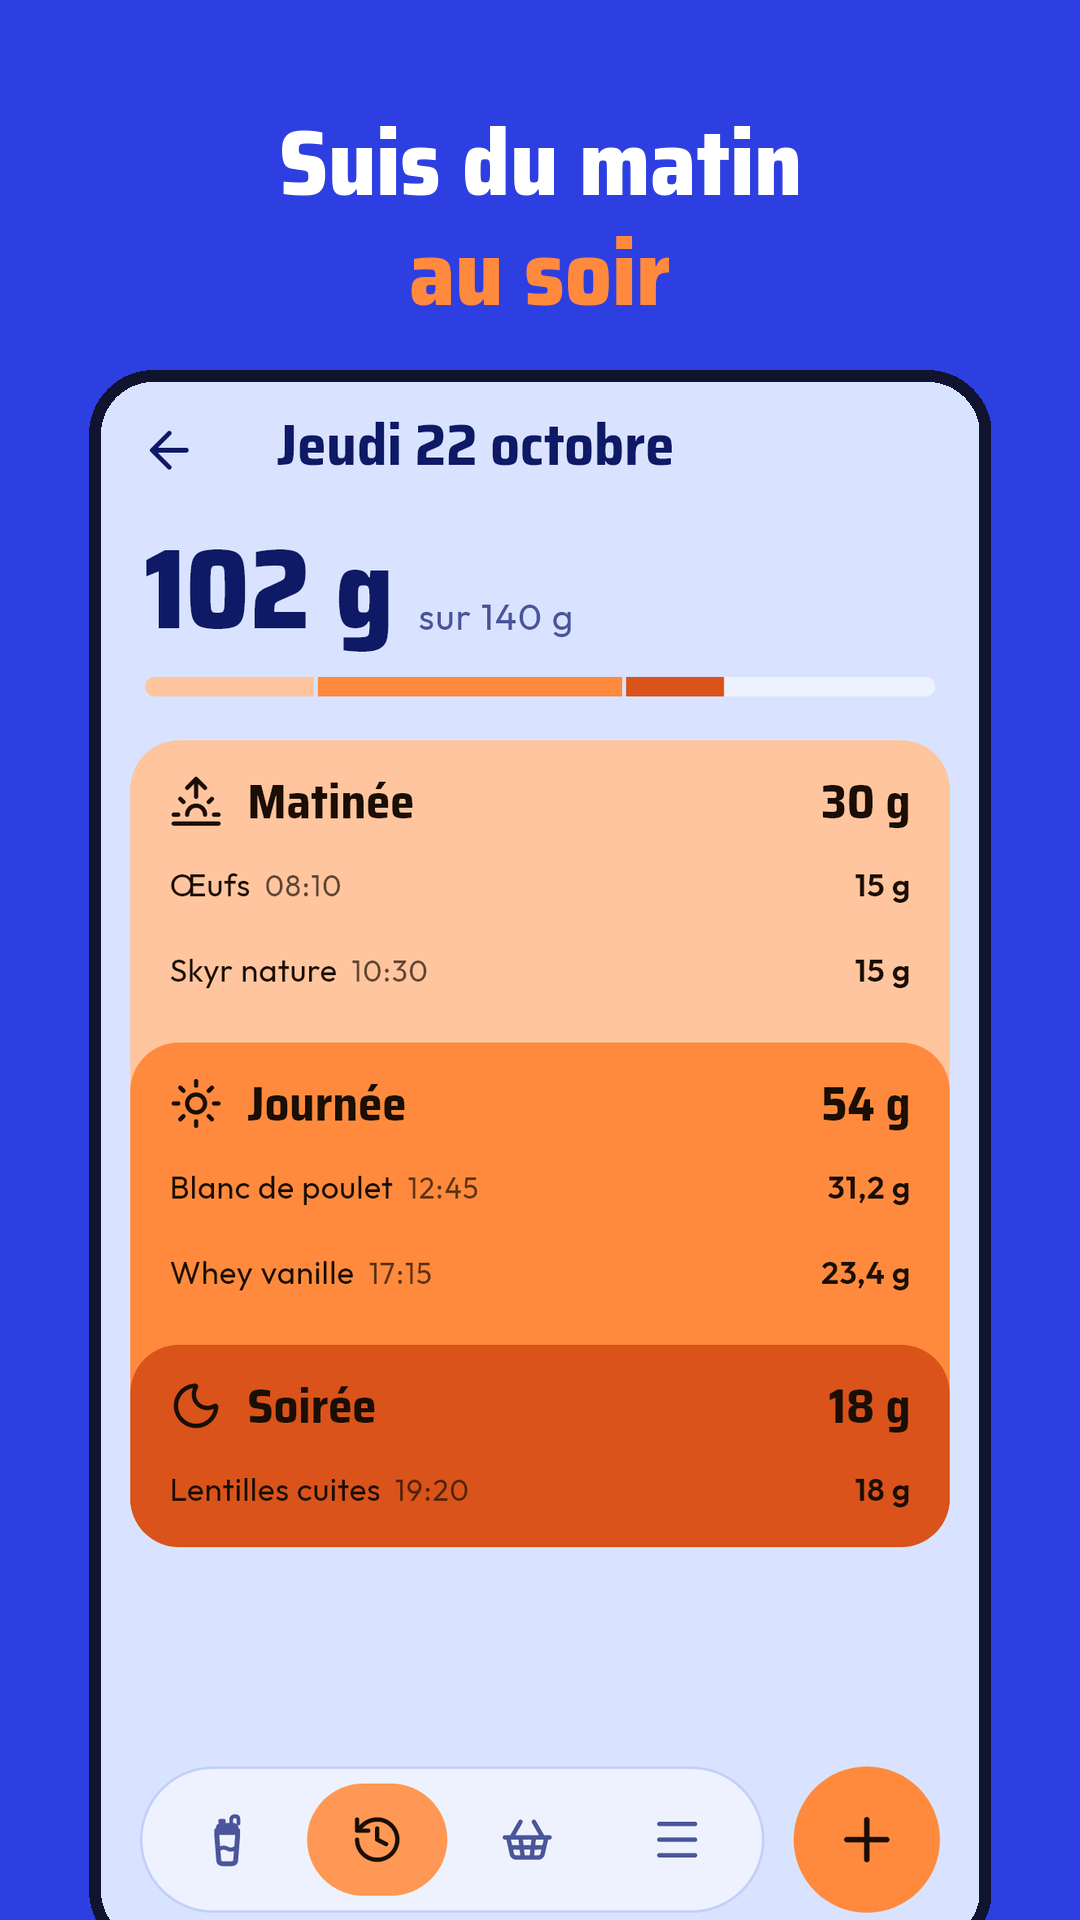
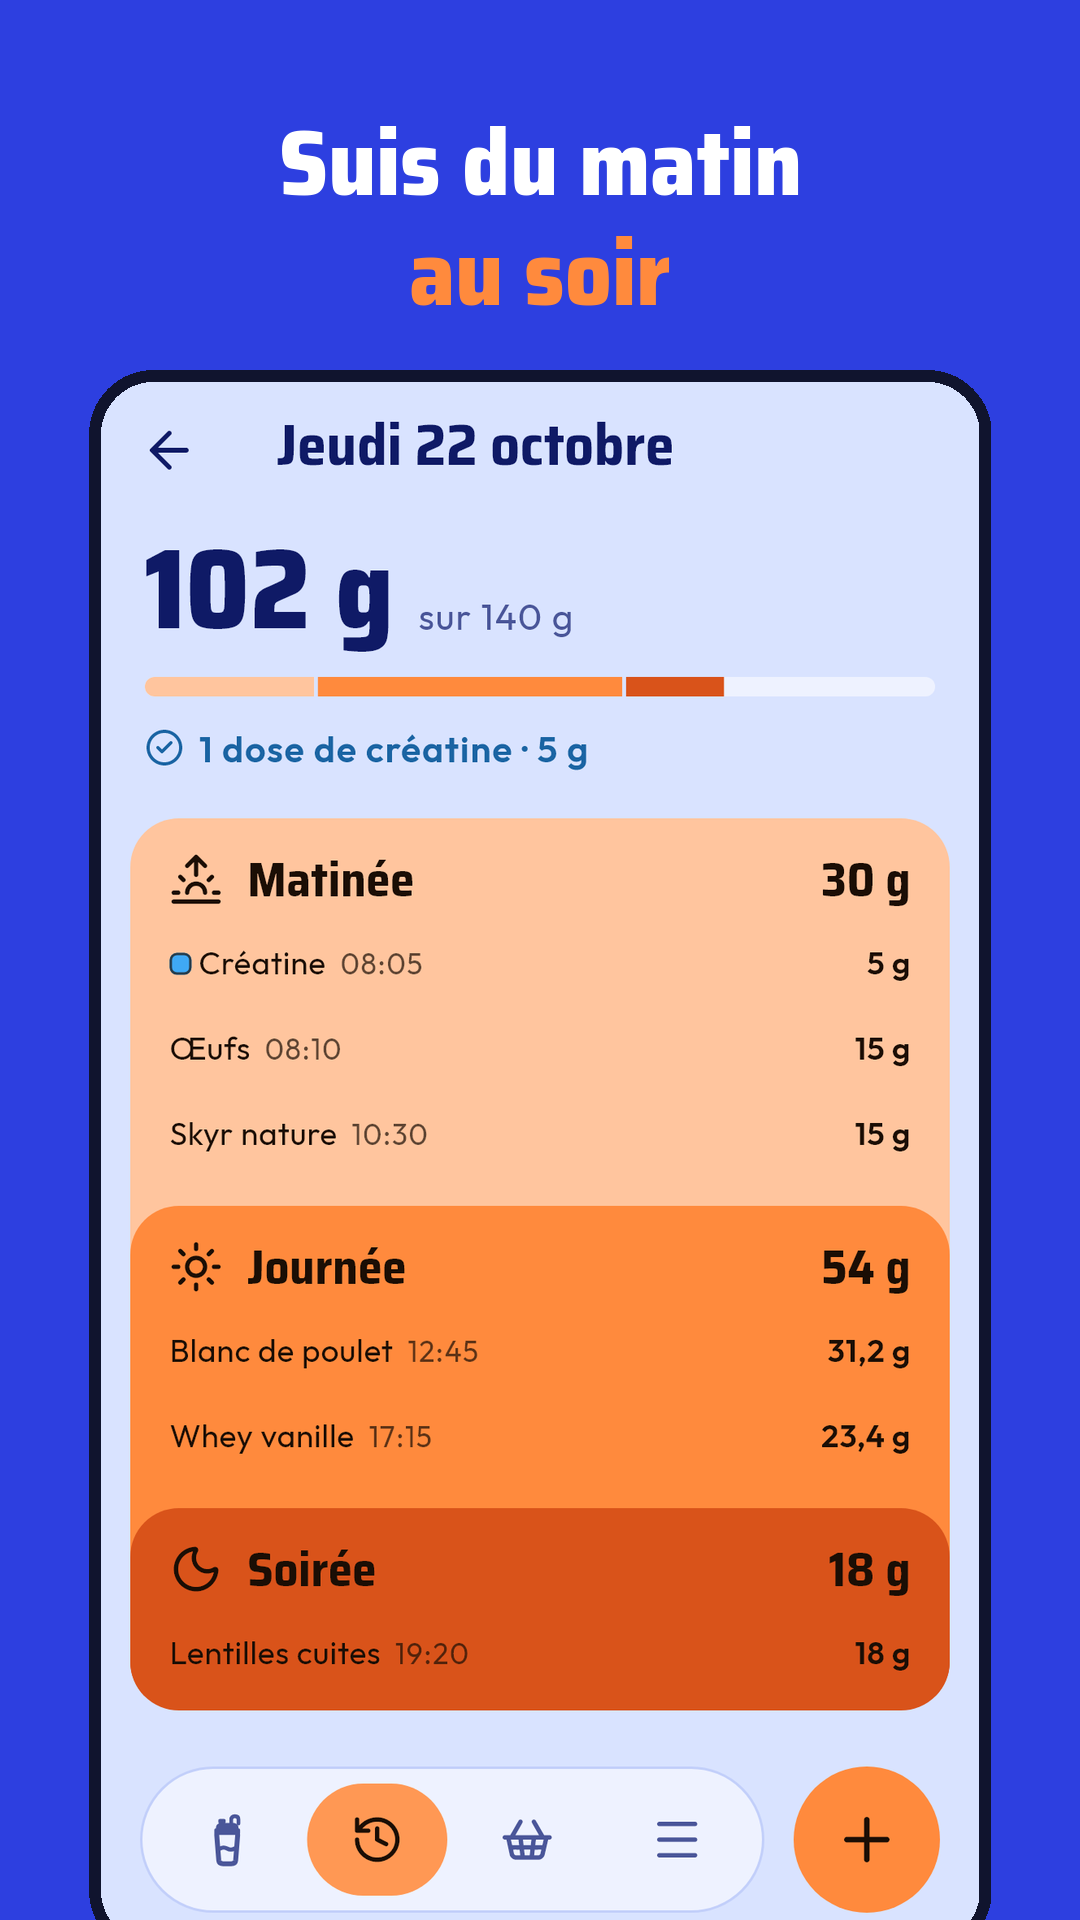
chore(release): prepare version 1.4.0
- Set the version to 1.4.0.
- Show creatine in the store screenshots of the phone and of the watch,
  and render them again with the images of the Google Play listing.
- Write the What's new texts, and add creatine and the home screen widget
  to the descriptions of the listing and to the features of the README.
- Show a few screenshots of the phone and of the watch in the README.

Changed region(s): [[0.1222, 0.375, 0.8861, 0.9062]]

diff --git a/android/wear/src/testDebug/kotlin/arbitro/android/protein_calculator/wear/StoreScreenshotsTest.kt b/android/wear/src/testDebug/kotlin/arbitro/android/protein_calculator/wear/StoreScreenshotsTest.kt
@@ -65,7 +65,14 @@ class StoreScreenshotsTest {
         val entries: List<Entry>,
     )
 
-    private class Entry(val name: String, val protein: Double, val hour: Int, val minute: Int)
+    /** An entry of the day; without a name nor protein, a creatine dose taken on its own. */
+    private class Entry(
+        val name: String?,
+        val protein: Double,
+        val hour: Int,
+        val minute: Int,
+        val creatineDoses: Int = 0,
+    )
 
     private val french = Texts(
         language = "fr",
@@ -78,6 +85,7 @@ class StoreScreenshotsTest {
             "Whey vanille" to 23.4,
         ),
         entries = listOf(
+            Entry(null, 0.0, 8, 5, creatineDoses = 1),
             Entry("Œufs", 15.0, 8, 10),
             Entry("Skyr nature", 15.0, 10, 30),
             Entry("Blanc de poulet", 31.2, 12, 45),
@@ -97,6 +105,7 @@ class StoreScreenshotsTest {
             "Vanilla whey" to 23.4,
         ),
         entries = listOf(
+            Entry(null, 0.0, 8, 5, creatineDoses = 1),
             Entry("Eggs", 15.0, 8, 10),
             Entry("Plain skyr", 15.0, 10, 30),
             Entry("Chicken breast", 31.2, 12, 45),
@@ -162,16 +171,19 @@ class StoreScreenshotsTest {
                 protein = entry.protein,
                 time = at(entry.hour, entry.minute),
                 fromWatch = false,
+                creatineDoses = entry.creatineDoses,
+                creatineGrams = entry.creatineDoses * CREATINE_DOSE_GRAMS,
             )
         }.reversed()
         val state = DayState(
-            day = 20261001,
+            day = 20261022,
             dayStartHour = 3,
             total = texts.entries.sumOf { it.protein },
             goal = 140.0,
             entries = entries,
             products = products,
             handled = emptyList(),
+            creatineEnabled = true,
         )
         return Saved(
             state = state,
@@ -255,13 +267,16 @@ class StoreScreenshotsTest {
         const val SIZE_PX = 384
         const val RENDERER_MINOR = 403
 
+        /** Grams of one creatine dose, as on the phone. */
+        const val CREATINE_DOSE_GRAMS = 5.0
+
         val ZONE: ZoneId = ZoneId.of("Europe/Paris")
 
-        /** Thursday 1 October 2026, 7:40 p.m., as in the screenshots of the phone app. */
+        /** Thursday 22 October 2026, 7:40 p.m., as in the screenshots of the phone app. */
         val NOW = at(19, 40)
 
         fun at(hour: Int, minute: Int): Long =
-            LocalDateTime.of(2026, 10, 1, hour, minute).atZone(ZONE).toInstant().toEpochMilli()
+            LocalDateTime.of(2026, 10, 22, hour, minute).atZone(ZONE).toInstant().toEpochMilli()
     }
 }
 

diff --git a/tool/store_screenshots/store_screenshots_test.dart b/tool/store_screenshots/store_screenshots_test.dart
@@ -124,6 +124,13 @@ Future<AppDatabase> _seed(_Texts texts) async {
   Future<void> add(String name, double grams, DateTime at) => db.entriesDao
       .insertEntry(name: name, amount: DirectAmount(grams), createdAt: at);
 
+  // Creatine tracked, a dose taken each morning but a few.
+  await db.settingsDao.setCreatineEnabled(true);
+  Future<void> creatine(DateTime date) => db.entriesDao.addCreatineDose(
+    createdAt: date.add(const Duration(hours: 8, minutes: 5)),
+  );
+
+  await creatine(_today);
   for (final (name, grams, hour, minute) in texts.entries) {
     await add(name, grams, _today.add(Duration(hours: hour, minutes: minute)));
   }
@@ -135,6 +142,7 @@ Future<AppDatabase> _seed(_Texts texts) async {
     final date = DateTime(_today.year, _today.month, _today.day - day);
     final total = totals[day % totals.length];
     final names = texts.earlierDays;
+    if (day % 4 != 0) await creatine(date);
     await add(names[0], total * 0.25, date.add(const Duration(hours: 8)));
     await add(names[1], total * 0.35, date.add(const Duration(hours: 13)));
     await add(names[2], total * 0.2, date.add(const Duration(hours: 17)));

diff --git a/README.md b/README.md
@@ -7,11 +7,19 @@
 Log the protein you eat each day and see how much is left to reach your goal.
 No account, no ads, and your data stays on your phone.
 
-[![Get it on Google Play](https://play.google.com/intl/en_us/badges/static/images/badges/en_badge_web_generic.png)](https://play.google.com/store/apps/details?id=arbitro.android.protein_calculator)
+<a href="https://play.google.com/store/apps/details?id=arbitro.android.protein_calculator"><img src="https://play.google.com/intl/en_us/badges/static/images/badges/en_badge_web_generic.png" alt="Get it on Google Play" height="60"></a>
 
 [![Checks](https://github.com/ArbitroDev/ProteinCalculator/actions/workflows/checks.yml/badge.svg?branch=develop)](https://github.com/ArbitroDev/ProteinCalculator/actions/workflows/checks.yml)
 [![Release](https://img.shields.io/github/v/release/ArbitroDev/ProteinCalculator)](https://github.com/ArbitroDev/ProteinCalculator/releases)
 [![License: source-available](https://img.shields.io/badge/license-source--available-lightgrey)](LICENSE.md)
+
+<img src="store/en/screenshots/1.png" alt="The day, its goal and its entries in a shaker" width="240">
+<img src="store/en/screenshots/3.png" alt="The calendar of the history" width="240">
+<img src="store/en/screenshots/5.png" alt="Scanning the barcode of a product" width="240">
+
+<img src="store/en/wear/1.png" alt="The day on the watch" width="180">
+<img src="store/en/wear/3.png" alt="The products on the watch" width="180">
+<img src="store/en/wear/4.png" alt="The tile of the watch" width="180">
 
 </div>
 
@@ -38,6 +46,14 @@ No account, no ads, and your data stays on your phone.
   picking its day and time.
 - A day starts at 3 a.m. by default (you can change it): what you eat after
   midnight counts for the day before.
+- A home screen widget shows the progress of the day toward the goal.
+
+**Creatine**
+- Turn creatine tracking on in the menu and set the grams of one dose.
+- Add a dose in one tap from the main screen, or with an entry or a product
+  that holds some.
+- The days creatine was taken are marked in the history, the calendar, the
+  widget and the watch tile.
 
 **Products**
 - Save the foods you eat often and add them in one tap, from a list sorted
@@ -74,7 +90,7 @@ The app is available in **English** and **French**.
 | Platform | Status |
 |---|---|
 | **Android** (7.0 and later) | Main platform, published on [Google Play](https://play.google.com/store/apps/details?id=arbitro.android.protein_calculator). |
-| **Wear OS** (3 and later) | Companion app for the watch, installed from Google Play along with the phone app: the day and its entries, a tile, a complication, quick additions of saved products or of protein grams, and deletions of entries, even away from the phone. The phone stays the only source of truth. |
+| **Wear OS** (3 and later) | Companion app for the watch, installed from Google Play along with the phone app: the day and its entries, a tile telling the progress and whether creatine was taken, a complication, quick additions of saved products or of protein grams, and deletions of entries, even away from the phone. The phone stays the only source of truth. |
 | **Web** | Used for development and debugging only. |
 
 ## Privacy
